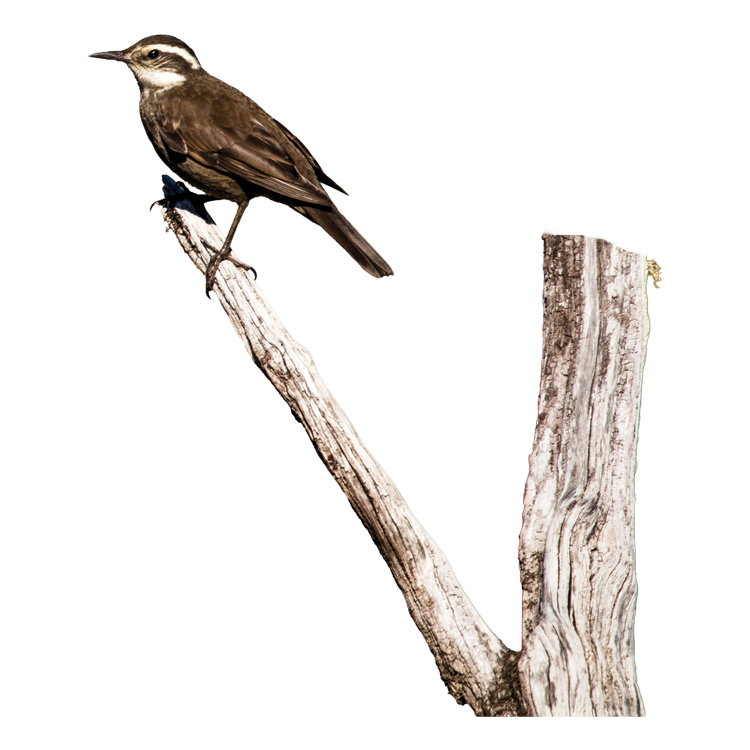
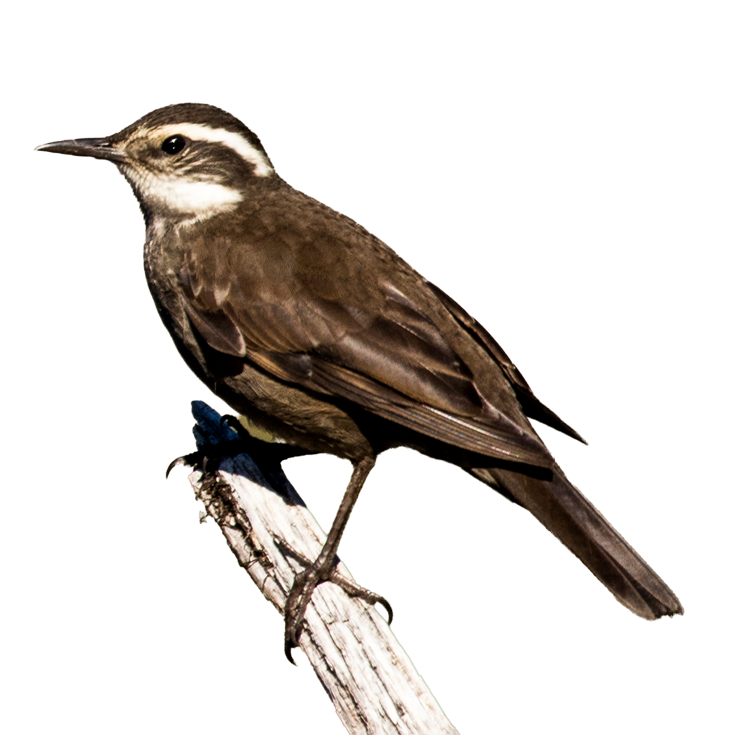
New colors and design for the zoom photo

diff --git a/style.css b/style.css
@@ -138,12 +138,13 @@ h2 {
 
 #progress-container {
     padding: 6px;
-    width: 40%;
+    width: 30%;
     height: 25px;
-    background: rgba(0, 0, 0, 0.25);
+    background: rgba(255, 255, 255, 0.5);
     margin: 20px auto;
     overflow: hidden;
-    border-radius: 30px;
+    border: 1px solid rgba(43, 228, 6, 0.25);
+    border-radius: 15px;
     box-shadow: inset 0 1px 2px rgba(0, 0, 0, 0.25),
     0 1px rgba(255, 255, 255, 0.08);
     
@@ -152,7 +153,7 @@ h2 {
 #progress-bar {
     height: 100%;
     width: 85%;
-    border-radius: 30px;
+    border-radius: 15px;
     background-color: rgb(43, 228, 6);
     box-shadow: 0 0 8px 1px rgb(255, 255, 255) inset;transition: width 0.3s ease;
 }
@@ -227,8 +228,8 @@ h2 {
 /* ======== BOTÓN SIGUIENTE ======== */
 
 #nextBtn {
-    margin-top: 20px;
-    padding: 10px 20px;
+    margin-top: 5px;
+    padding: 10px 30px;
     font-size: 15px;
     border: none;
     box-shadow: 0px 10px 14px -7px #3e7327;
@@ -348,7 +349,7 @@ h2 {
 /* ======== Correct Animal ======== */
 
 #correct-animal {
-    margin-top: 100px;
+    margin-top: 0px;
 }
 
 #correct-img {
@@ -371,6 +372,14 @@ h2 {
     outline-offset: 4px;
 }
 
+#photo-zoom-hint {
+    margin: 0 0 24px;
+    color: #000000;
+    font-size: 18px;
+    font-style: italic;
+    text-shadow: 1px 1px 2px rgba(0, 0, 0, 0.5);
+}
+
 /* ======== Zoom de la foto correcta ======== */
 
 #photo-modal {
@@ -380,7 +389,7 @@ h2 {
     justify-content: center;
     align-items: center;
     padding: 30px;
-    background: rgba(0, 0, 0, 0.82);
+    background: linear-gradient(rgba(3, 3, 3, 0.95), rgba(32, 40, 0, 0.95));
     z-index: 10000;
 }
 
@@ -391,10 +400,18 @@ h2 {
     display: flex;
     justify-content: center;
     align-items: center;
-    cursor: grab;
+    cursor: default;
 }
 
 #photo-viewport:active {
+    cursor: grabbing;
+}
+
+#photo-viewport.is-zoomed {
+    cursor: grab;
+}
+
+#photo-viewport.is-zoomed:active {
     cursor: grabbing;
 }
 
@@ -405,42 +422,54 @@ h2 {
     transform-origin: center;
     user-select: none;
     touch-action: none;
+    cursor: zoom-in;
+}
+
+#photo-viewport.is-zoomed #zoomed-photo {
+    cursor: grab;
+}
+
+#photo-viewport.is-zoomed:active #zoomed-photo {
+    cursor: grabbing;
 }
 
 #close-photo-btn {
     position: absolute;
-    top: 350px;
+    top: 200px;
     right: 550px;
     width: 48px;
     height: 48px;
     border: 0;
     border-radius: 50%;
-    background: white;
-    color: #333;
+    background: rgb(255, 255, 255);
+    color: rgb(255, 106, 0);
     cursor: pointer;
     font-size: 34px;
+    font-weight: bold;
     line-height: 1;
 }
 
 #photo-controls {
     position: absolute;
-    bottom: 24px;
+    top: 200px;
     display: flex;
     align-items: center;
-    gap: 8px;
+    gap: 20px;
 }
 
 #photo-help {
     position: absolute;
-    width: 28%;
+    pointer-events: none;
+    width: 40%;
     bottom: 275px;
     font-size: 25px;
     font-family:'Lucida Sans', 'Lucida Sans Regular', 'Lucida Grande', 'Lucida Sans Unicode', Geneva, Verdana, sans-serif;
     letter-spacing: 2px;
     font-size: 30px;
-    line-height: 1,25;
+    line-height: 1.25;
     font-weight: light;
     color:rgb(255, 255, 255);
+    text-shadow: 1px 1px 2px rgb(149, 255, 0);
 }
 
 #photo-controls button {
@@ -449,15 +478,16 @@ h2 {
     padding: 0 12px;
     border: 0;
     border-radius: 20px;
-    background: rgb(99, 20, 20, 0);
-    color: chocolate;
+    background: rgba(255, 255, 255, 1);
+    color: rgb(255, 106, 0);
     cursor: pointer;
     font: inherit;
     font-weight: bold;
 }
 
 #photo-controls button:hover {
-    color: olive;
+    color: rgb(0, 0, 0);
+    background: rgb(149, 255, 0);
 }
 
 #correct-name {

diff --git a/main.js b/main.js
@@ -57,9 +57,14 @@ let photoOffsetX = 0;
 let photoOffsetY = 0;
 let dragStartX = 0;
 let dragStartY = 0;
+let photoPointerStartX = 0;
+let photoPointerStartY = 0;
+let photoWasDragged = false;
+const photoPanSpeed = 1;
 
 function updatePhotoTransform() {
   zoomedPhoto.style.transform = `translate(${photoOffsetX}px, ${photoOffsetY}px) scale(${photoZoom})`;
+  photoViewport.classList.toggle("is-zoomed", photoZoom > 1);
 }
 
 function resetPhotoZoom() {
@@ -71,6 +76,27 @@ function resetPhotoZoom() {
 
 function changePhotoZoom(amount) {
   photoZoom = Math.min(5, Math.max(1, photoZoom + amount));
+  updatePhotoTransform();
+}
+
+function zoomPhotoAtPoint(event) {
+  if (photoWasDragged) {
+    photoWasDragged = false;
+    return;
+  }
+
+  const viewportRect = photoViewport.getBoundingClientRect();
+  const centerX = viewportRect.width / 2;
+  const centerY = viewportRect.height / 2;
+  const clickX = event.clientX - viewportRect.left;
+  const clickY = event.clientY - viewportRect.top;
+  const imageX = (clickX - centerX - photoOffsetX) / photoZoom;
+  const imageY = (clickY - centerY - photoOffsetY) / photoZoom;
+  const nextZoom = Math.min(5, photoZoom + 0.75);
+
+  photoOffsetX = clickX - centerX - imageX * nextZoom;
+  photoOffsetY = clickY - centerY - imageY * nextZoom;
+  photoZoom = nextZoom;
   updatePhotoTransform();
 }
 
@@ -96,21 +122,27 @@ document.getElementById("zoom-in-btn").onclick = () => changePhotoZoom(0.5);
 document.getElementById("zoom-out-btn").onclick = () => changePhotoZoom(-0.5);
 document.getElementById("reset-zoom-btn").onclick = resetPhotoZoom;
 
-photoViewport.addEventListener("wheel", event => {
-  event.preventDefault();
-  changePhotoZoom(event.deltaY < 0 ? 0.25 : -0.25);
-}, { passive: false });
+photoViewport.addEventListener("click", zoomPhotoAtPoint);
 
 photoViewport.addEventListener("pointerdown", event => {
   photoViewport.setPointerCapture(event.pointerId);
+  photoPointerStartX = event.clientX;
+  photoPointerStartY = event.clientY;
+  photoWasDragged = false;
   dragStartX = event.clientX - photoOffsetX;
   dragStartY = event.clientY - photoOffsetY;
 });
 
 photoViewport.addEventListener("pointermove", event => {
   if (!photoViewport.hasPointerCapture(event.pointerId)) return;
-  photoOffsetX = event.clientX - dragStartX;
-  photoOffsetY = event.clientY - dragStartY;
+  if (Math.abs(event.clientX - photoPointerStartX) > 4 ||
+      Math.abs(event.clientY - photoPointerStartY) > 4) {
+    photoWasDragged = true;
+  }
+  photoOffsetX = (event.clientX - photoPointerStartX) * photoPanSpeed +
+    (photoPointerStartX - dragStartX);
+  photoOffsetY = (event.clientY - photoPointerStartY) * photoPanSpeed +
+    (photoPointerStartY - dragStartY);
   updatePhotoTransform();
 });
 

diff --git a/index.html b/index.html
@@ -42,6 +42,7 @@
 
     <!-- Animal correcto -->
     <div id="correct-animal" class="hidden">
+    <p id="photo-zoom-hint">Haz clic en la foto para ampliarla y saber más.</p>
         <button id="correct-photo-btn" type="button" aria-label="Ampliar foto del animal identificado">
          <img id="correct-img" src="" alt="Animal identificado">
         </button>
@@ -69,7 +70,7 @@
         <div id="photo-viewport">
             <img id="zoomed-photo" src="" alt="">
         </div>
-        <p id="photo-help">Usa + y - para ampliar. Arrastra la imagen para explorar.</p>
+        <p id="photo-help">Haz clic en distintas partes para ampliar. Arrastra la imagen para explorar.</p>
         <div id="photo-controls" aria-label="Controles de zoom">
             <button id="zoom-out-btn" type="button" aria-label="Alejar">&minus;</button>
             <button id="reset-zoom-btn" type="button">Restablecer</button>
